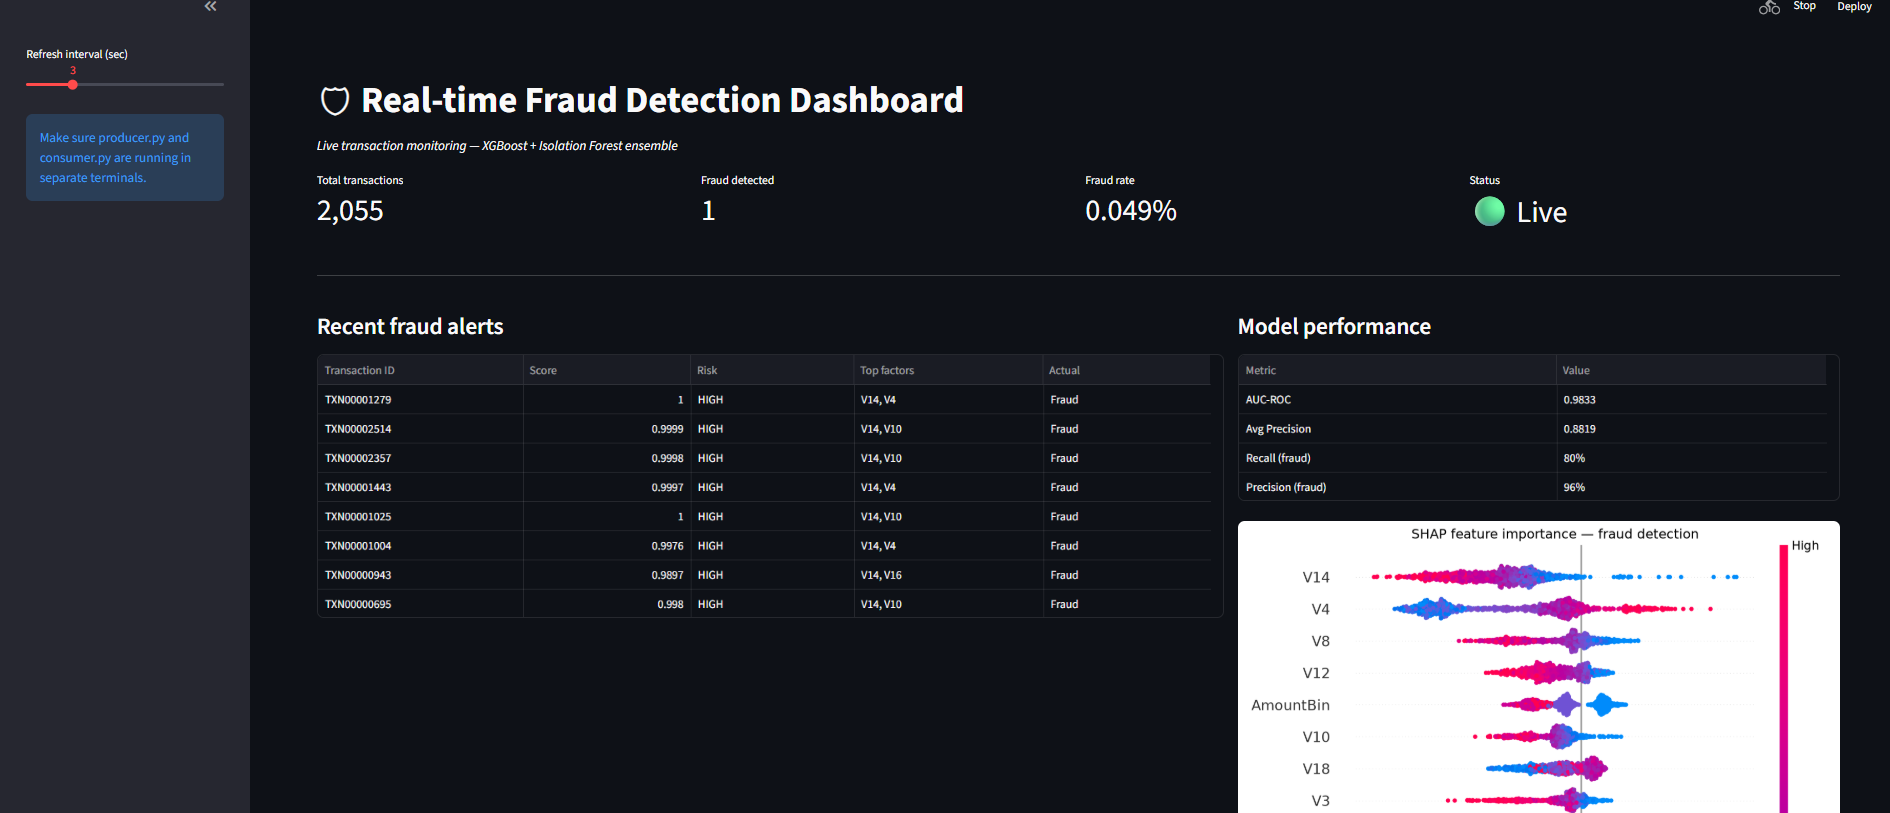
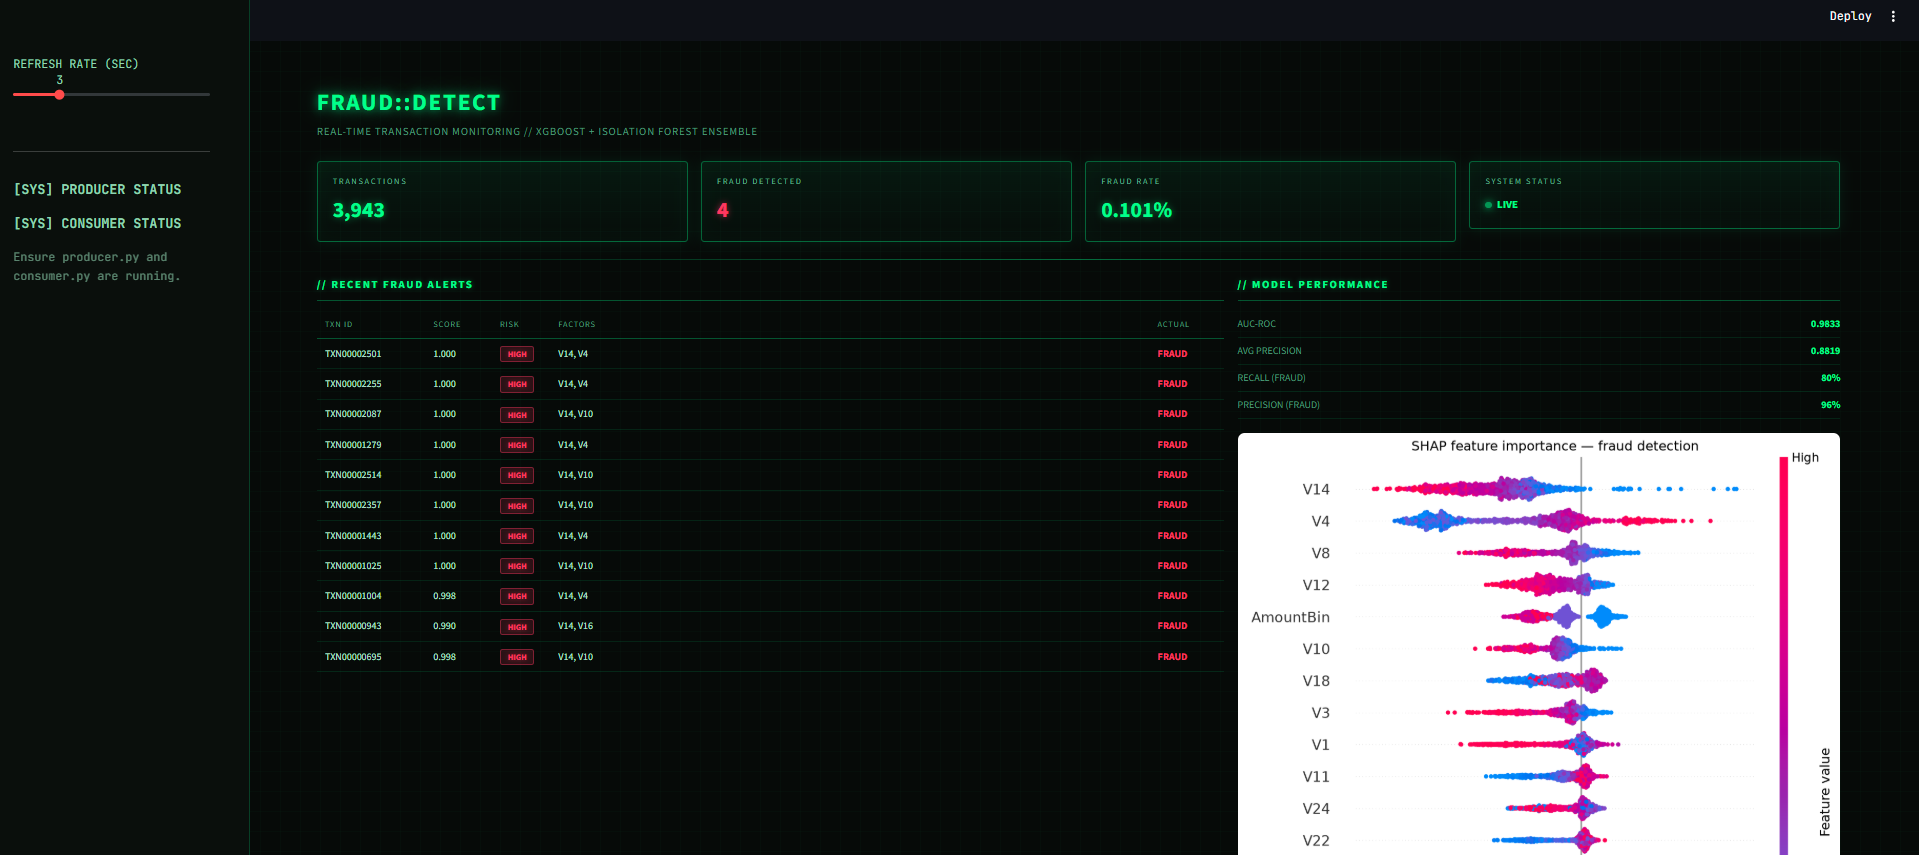
feat: redesign dashboard with sci-fi terminal aesthetic

diff --git a/app/dashboard.py b/app/dashboard.py
@@ -4,69 +4,240 @@ sys.path.insert(0, os.path.dirname(os.path.dirname(os.path.abspath(__file__))))
 import streamlit as st
 import redis, json, time
 import pandas as pd
-import plotly.graph_objects as go
 
-st.set_page_config(page_title="Fraud Detection Dashboard",
-                   page_icon="🛡", layout="wide")
+st.set_page_config(page_title="FRAUD::DETECT", page_icon="🛡", layout="wide")
 
 r = redis.Redis(host='localhost', port=6379, decode_responses=True)
 
-st.title("🛡 Real-time Fraud Detection Dashboard")
-st.markdown("_Live transaction monitoring — XGBoost + Isolation Forest ensemble_")
+# ── Sci-fi CSS injection ──────────────────────────────────
+st.markdown("""
+<style>
+@import url('https://fonts.googleapis.com/css2?family=JetBrains+Mono:wght@400;500;700&display=swap');
 
-refresh = st.sidebar.slider("Refresh interval (sec)", 1, 10, 3)
-st.sidebar.info("Make sure producer.py and consumer.py are running in separate terminals.")
+html, body, [class*="css"] {
+    font-family: 'JetBrains Mono', monospace !important;
+}
 
-# Live metrics
+.stApp {
+    background: #060a08;
+    background-image:
+        linear-gradient(rgba(0,255,140,0.02) 1px, transparent 1px),
+        linear-gradient(90deg, rgba(0,255,140,0.02) 1px, transparent 1px);
+    background-size: 24px 24px;
+}
+
+.main-title {
+    font-size: 28px;
+    font-weight: 700;
+    color: #00ff8c;
+    text-shadow: 0 0 12px rgba(0,255,140,0.6), 0 0 24px rgba(0,255,140,0.3);
+    letter-spacing: 2px;
+    margin-bottom: 2px;
+}
+
+.sub-title {
+    color: #4a9b78;
+    font-size: 13px;
+    letter-spacing: 1px;
+    margin-bottom: 24px;
+}
+
+.metric-box {
+    background: linear-gradient(180deg, rgba(0,255,140,0.06), rgba(0,255,140,0.01));
+    border: 1px solid rgba(0,255,140,0.35);
+    border-radius: 4px;
+    padding: 16px 18px;
+    box-shadow: 0 0 16px rgba(0,255,140,0.08), inset 0 0 20px rgba(0,255,140,0.03);
+}
+
+.metric-label {
+    color: #5fae8a;
+    font-size: 10px;
+    letter-spacing: 2px;
+    text-transform: uppercase;
+    margin-bottom: 6px;
+}
+
+.metric-value {
+    color: #00ff8c;
+    font-size: 26px;
+    font-weight: 700;
+    text-shadow: 0 0 8px rgba(0,255,140,0.5);
+}
+
+.metric-value.danger {
+    color: #ff3860;
+    text-shadow: 0 0 8px rgba(255,56,96,0.6);
+}
+
+.status-live {
+    display: inline-flex;
+    align-items: center;
+    gap: 6px;
+    color: #00ff8c;
+    font-size: 13px;
+    font-weight: 700;
+}
+
+.status-dot {
+    width: 8px; height: 8px;
+    border-radius: 50%;
+    background: #00ff8c;
+    box-shadow: 0 0 8px #00ff8c, 0 0 16px #00ff8c;
+    animation: pulse 1.5s infinite;
+}
+
+@keyframes pulse {
+    0%, 100% { opacity: 1; }
+    50% { opacity: 0.3; }
+}
+
+.panel-header {
+    color: #00ff8c;
+    font-size: 13px;
+    font-weight: 700;
+    letter-spacing: 2px;
+    text-transform: uppercase;
+    border-bottom: 1px solid rgba(0,255,140,0.3);
+    padding-bottom: 8px;
+    margin-bottom: 12px;
+    text-shadow: 0 0 6px rgba(0,255,140,0.4);
+}
+
+.alert-row {
+    display: grid;
+    grid-template-columns: 120px 70px 60px 1fr 70px;
+    gap: 10px;
+    padding: 8px 10px;
+    border-bottom: 1px solid rgba(0,255,140,0.1);
+    font-size: 12px;
+    color: #b8e8d0;
+    align-items: center;
+}
+
+.alert-row.header {
+    color: #4a9b78;
+    font-size: 10px;
+    letter-spacing: 1px;
+    text-transform: uppercase;
+    border-bottom: 1px solid rgba(0,255,140,0.3);
+}
+
+.risk-tag {
+    background: rgba(255,56,96,0.15);
+    color: #ff3860;
+    border: 1px solid rgba(255,56,96,0.4);
+    border-radius: 3px;
+    padding: 2px 8px;
+    font-size: 10px;
+    font-weight: 700;
+    text-align: center;
+    text-shadow: 0 0 6px rgba(255,56,96,0.5);
+}
+
+.fraud-tag {
+    color: #ff3860;
+    font-weight: 700;
+}
+
+.legit-tag {
+    color: #4a9b78;
+}
+
+.divider-line {
+    height: 1px;
+    background: linear-gradient(90deg, transparent, rgba(0,255,140,0.4), transparent);
+    margin: 20px 0;
+}
+
+[data-testid="stSidebar"] {
+    background: #0a0f0c;
+    border-right: 1px solid rgba(0,255,140,0.2);
+}
+
+[data-testid="stSidebar"] * {
+    color: #8fd4b0 !important;
+    font-family: 'JetBrains Mono', monospace !important;
+}
+
+.stCaption {
+    color: #3d6e54 !important;
+    font-size: 11px !important;
+}
+</style>
+""", unsafe_allow_html=True)
+
+# ── Header ────────────────────────────────────────────────
+st.markdown('<div class="main-title">FRAUD::DETECT</div>', unsafe_allow_html=True)
+st.markdown('<div class="sub-title">REAL-TIME TRANSACTION MONITORING // XGBOOST + ISOLATION FOREST ENSEMBLE</div>', unsafe_allow_html=True)
+
+refresh = st.sidebar.slider("REFRESH RATE (SEC)", 1, 10, 3)
+st.sidebar.markdown("---")
+st.sidebar.markdown("**[SYS] PRODUCER STATUS**")
+st.sidebar.markdown("**[SYS] CONSUMER STATUS**")
+st.sidebar.caption("Ensure producer.py and consumer.py are running.")
+
+# ── Metrics ───────────────────────────────────────────────
 metrics = r.hgetall('fraud:metrics') or {}
 total      = int(float(metrics.get('total', 0)))
 fraud      = int(float(metrics.get('fraud', 0)))
 fraud_rate = float(metrics.get('fraud_rate', 0))
 
-col1, col2, col3, col4 = st.columns(4)
-col1.metric("Total transactions", f"{total:,}")
-col2.metric("Fraud detected", f"{fraud:,}")
-col3.metric("Fraud rate", f"{fraud_rate:.3f}%")
-col4.metric("Status", "🟢 Live" if total > 0 else "🔴 No data")
+c1, c2, c3, c4 = st.columns(4)
+with c1:
+    st.markdown(f'<div class="metric-box"><div class="metric-label">TRANSACTIONS</div><div class="metric-value">{total:,}</div></div>', unsafe_allow_html=True)
+with c2:
+    st.markdown(f'<div class="metric-box"><div class="metric-label">FRAUD DETECTED</div><div class="metric-value danger">{fraud:,}</div></div>', unsafe_allow_html=True)
+with c3:
+    st.markdown(f'<div class="metric-box"><div class="metric-label">FRAUD RATE</div><div class="metric-value">{fraud_rate:.3f}%</div></div>', unsafe_allow_html=True)
+with c4:
+    status = '<span class="status-dot"></span> LIVE' if total > 0 else 'OFFLINE'
+    st.markdown(f'<div class="metric-box"><div class="metric-label">SYSTEM STATUS</div><div class="status-live">{status}</div></div>', unsafe_allow_html=True)
 
-st.divider()
+st.markdown('<div class="divider-line"></div>', unsafe_allow_html=True)
 
 col_left, col_right = st.columns([3, 2])
 
 with col_left:
-    st.subheader("Recent fraud alerts")
+    st.markdown('<div class="panel-header">// RECENT FRAUD ALERTS</div>', unsafe_allow_html=True)
     alerts_raw = r.lrange('fraud:alerts', 0, 14)
     if alerts_raw:
-        rows = []
+        st.markdown('<div class="alert-row header"><div>TXN ID</div><div>SCORE</div><div>RISK</div><div>FACTORS</div><div>ACTUAL</div></div>', unsafe_allow_html=True)
         for a in alerts_raw:
             alert = json.loads(a)
             factors = alert.get('top_factors', [])
-            rows.append({
-                'Transaction ID': alert.get('txn_id', '?'),
-                'Score': float(alert.get('score', 0)),
-                'Risk': 'HIGH' if float(alert.get('score', 0)) > 0.7 else 'MEDIUM',
-                'Top factors': ', '.join(factors[:2]),
-                'Actual': 'Fraud' if alert.get('true_label') == '1' else 'Legit'
-            })
-        alerts_df = pd.DataFrame(rows)
-        st.dataframe(alerts_df, use_container_width=True, hide_index=True)
+            score = float(alert.get('score', 0))
+            actual = alert.get('true_label')
+            actual_html = '<span class="fraud-tag">FRAUD</span>' if actual == '1' else '<span class="legit-tag">LEGIT</span>'
+            st.markdown(f'''<div class="alert-row">
+                <div>{alert.get('txn_id','?')}</div>
+                <div>{score:.3f}</div>
+                <div><span class="risk-tag">HIGH</span></div>
+                <div>{', '.join(factors[:2])}</div>
+                <div>{actual_html}</div>
+            </div>''', unsafe_allow_html=True)
     else:
-        st.info("No alerts yet — start producer.py and consumer.py")
+        st.markdown('<div style="color:#4a9b78;font-size:12px;padding:20px 0">[ NO ALERTS — AWAITING STREAM DATA ]</div>', unsafe_allow_html=True)
 
 with col_right:
-    st.subheader("Model performance")
-    perf = pd.DataFrame({
-        'Metric': ['AUC-ROC', 'Avg Precision', 'Recall (fraud)', 'Precision (fraud)'],
-        'Value':  ['0.9833', '0.8819', '80%', '96%']
-    })
-    st.dataframe(perf, use_container_width=True, hide_index=True)
-    try:
-        st.image('reports/shap_summary.png',
-                 caption='SHAP feature importance', use_container_width=True)
-    except Exception:
-        st.warning("SHAP plot not found")
+    st.markdown('<div class="panel-header">// MODEL PERFORMANCE</div>', unsafe_allow_html=True)
+    perf = [
+        ("AUC-ROC", "0.9833"),
+        ("AVG PRECISION", "0.8819"),
+        ("RECALL (FRAUD)", "80%"),
+        ("PRECISION (FRAUD)", "96%"),
+    ]
+    for label, val in perf:
+        st.markdown(f'<div style="display:flex;justify-content:space-between;padding:6px 0;border-bottom:1px solid rgba(0,255,140,0.1);font-size:12px;color:#b8e8d0"><span style="color:#4a9b78">{label}</span><span style="color:#00ff8c;font-weight:700">{val}</span></div>', unsafe_allow_html=True)
 
-st.divider()
-st.caption("Dataset: Kaggle Credit Card Fraud (284,807 txns, 0.17% fraud) | Built by Efro")
+    st.markdown('<div style="margin-top:16px"></div>', unsafe_allow_html=True)
+    try:
+        st.image('reports/shap_summary.png', use_container_width=True)
+    except Exception:
+        pass
+
+st.markdown('<div class="divider-line"></div>', unsafe_allow_html=True)
+st.caption("DATASET: KAGGLE CREDIT CARD FRAUD (284,807 TXN, 0.17% FRAUD) // BUILT BY EFRO // SYS.V1.0")
+
 time.sleep(refresh)
 st.rerun()